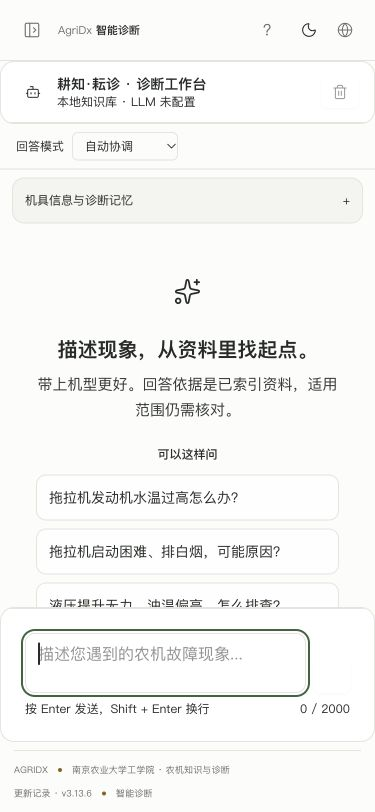
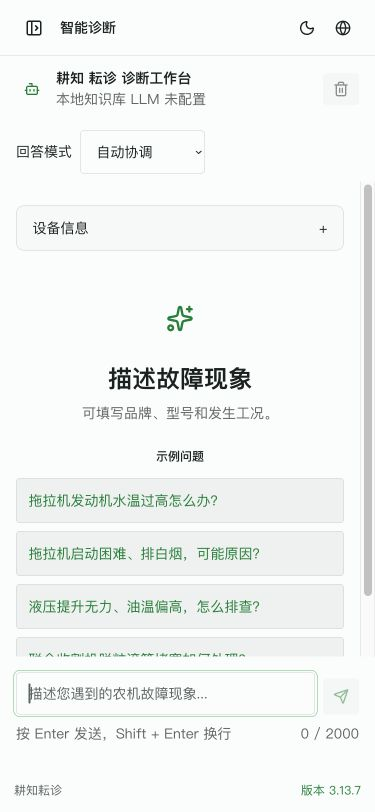
fix(ui): finish classic copy and verify preserved home-stage cues

diff --git a/src/pages/ChatPage/ChatPage.tsx b/src/pages/ChatPage/ChatPage.tsx
@@ -209,13 +209,13 @@ export default function ChatPage() {
                   ? <ThinkingOrbs state="listening" label={t('待命', 'Listening')} />
                   : <span className="flex h-14 w-14 items-center justify-center rounded-full bg-primary/10 text-primary"><Sparkles className="h-7 w-7" /></span>}
               </div>
-              <h2 className="font-serif text-xl font-bold text-foreground">{version === 'new' ? t('描述现象，从资料里找起点。', 'Describe the symptom. Start from the evidence.') : pick(content.CHAT_WELCOME.title, lang)}</h2>
-              <p className="mt-2 max-w-md text-sm text-muted-foreground">{version === 'new' ? t('带上机型更好。回答依据是已索引资料，适用范围仍需核对。', 'A model helps. Answers follow indexed evidence, and scope still needs a check.') : pick(content.CHAT_WELCOME.desc, lang)}</p>
+              <h2 className="font-serif text-xl font-bold text-foreground">{version === 'new' ? t('描述现象，从资料里找起点。', 'Describe the symptom. Start from the evidence.') : t('描述故障现象', 'Describe the fault')}</h2>
+              <p className="mt-2 max-w-md text-sm text-muted-foreground">{version === 'new' ? t('带上机型更好。回答依据是已索引资料，适用范围仍需核对。', 'A model helps. Answers follow indexed evidence, and scope still needs a check.') : t('可填写品牌、型号和发生工况。', 'Include the brand, model and operating conditions.')}</p>
 
 
               {/* 快捷提问按钮 */}
               <div className="mt-6 w-full">
-                <div className="mb-3 text-xs font-medium text-wheat">{version === 'new' ? t('可以这样问', 'You can ask') : t('您可以这样问', 'Try asking')}</div>
+                <div className="mb-3 text-xs font-medium text-wheat">{version === 'new' ? t('可以这样问', 'You can ask') : t('示例问题', 'Example questions')}</div>
                 <div className="grid gap-2 md:grid-cols-2">
                   {content.CHAT_QUICK_QUESTIONS.map((q) => (
                     <button

diff --git a/src/pages/HomePage/HomePage.tsx b/src/pages/HomePage/HomePage.tsx
@@ -39,7 +39,7 @@ export default function HomePage() {
       <Suspense fallback={null}><HomeStage /></Suspense>
       <HeroSection />
       <KnowledgeCoverage />
-      <div className="page-container"><details className="capability-details"><summary><span>{lang === 'zh' ? '项目与研究' : 'Project and research'}</span><ChevronDown size={20} /></summary><ResearchSection /><PainPointsSection /><TechRouteSection /><ScenariosSection /><ArchitectureSection /><SimulationSection /><MultimodalSection /><ClosingSection /></details></div>
+      <div className="page-container" data-home-beat="details" data-home-side="center"><details className="capability-details"><summary><span>{lang === 'zh' ? '项目与研究' : 'Project and research'}</span><ChevronDown size={20} /></summary><ResearchSection /><PainPointsSection /><TechRouteSection /><ScenariosSection /><ArchitectureSection /><SimulationSection /><MultimodalSection /><ClosingSection /></details></div>
     </div></MotionConfig>
   );
 }

diff --git a/ui/VALIDATION.md b/ui/VALIDATION.md
@@ -12,7 +12,11 @@
 - 桌面旧版知识页计算样式审计：字号只有 12/14/24px，边线为 0/0.5px，无横向溢出；可见标题与界面标签不含中点。
 - 知识页仍显示现有 10,877 条记录。说明书正文、引用定位、适用限制和历史记录保留原文。
 - 侧栏收起后刷新保留，主题切换、快速导航、新旧版切换通过。
-- 最终手机和线上验证见下方补充记录；截图与最终页面一致后保存。
+- 最终完整 `npm run verify` 通过：470 项，452 通过、18 跳过、0 失败；版本/知识库哈希、类型、lint、前后端构建通过。重组首页时遗漏的舞台段落标记已补回；19 项定向回归通过。
+- 最终知识页、模型页审计：字体只有 12/14/24px、边线 0/0.5px，无中点标签、无横向溢出，未发现遗留 `color-mix` 背景。模型素材原色保留。
+- 搜索弹层审计：12/14px，Radix Sage 背景，0.5px 边框；弹层在旧版外框内渲染，新版仍用原 portal。
+- 375px 手机抽屉关闭后焦点返回“打开导航”；375px 和 320px 诊断页无横向溢出，320×740 下故障输入框底部约642px，保持可见。设备信息通过原生 disclosure 展开。
+- 切回新版后，旧版外框消失；新版校园保留自有顶栏，知识页保留原蓝色外框与标题。新版首页和外框文件相对最新主线无差异，截图 `new-interface-unchanged.png` 记录实际结果。
 
 ## 范围
 

diff --git a/CHANGELOG.md b/CHANGELOG.md
@@ -28,7 +28,7 @@
 
 ### 验证结果
 
-- 旧版专属与 Radix 阶段完整 verify 通过：469 项，451 通过、18 跳过。合并最新图谱后边界、动画及图谱布局相关 16 项复跑通过；最终完整验证与 CI 见 [UI 验证记录](ui/VALIDATION.md)。
+- 合并最新图谱并补齐首页舞台锚点后，最终 `npm run verify` 通过：470 项，452 通过、18 跳过、0 失败；类型、lint、版本和知识库哈希、前后端构建通过，保留已有 Fast Refresh 与体积提示。相关 19 项定向测试亦通过；CI 与发布回执见 [UI 验证记录](ui/VALIDATION.md)。
 - 知识页浏览器审计只有 12/14/24px 字号，边线为 0/0.5px，可见界面标题和标签不含中点，无横向溢出。深浅色、搜索、侧栏保存、版本切换与手机抽屉复核记录及截图见 UI 专区。真实外部 LLM、建模服务与实车效果未验收。
 
 ### 关联 PR

diff --git a/ui/README.md b/ui/README.md
@@ -38,6 +38,10 @@
 
 ![旧版知识页](screenshots/knowledge-light.png)
 
+旧版模型工坊：
+
+![旧版模型工坊](screenshots/model-classic.png)
+
 手机导航与诊断：
 
 ![手机导航](screenshots/mobile-navigation.png)
